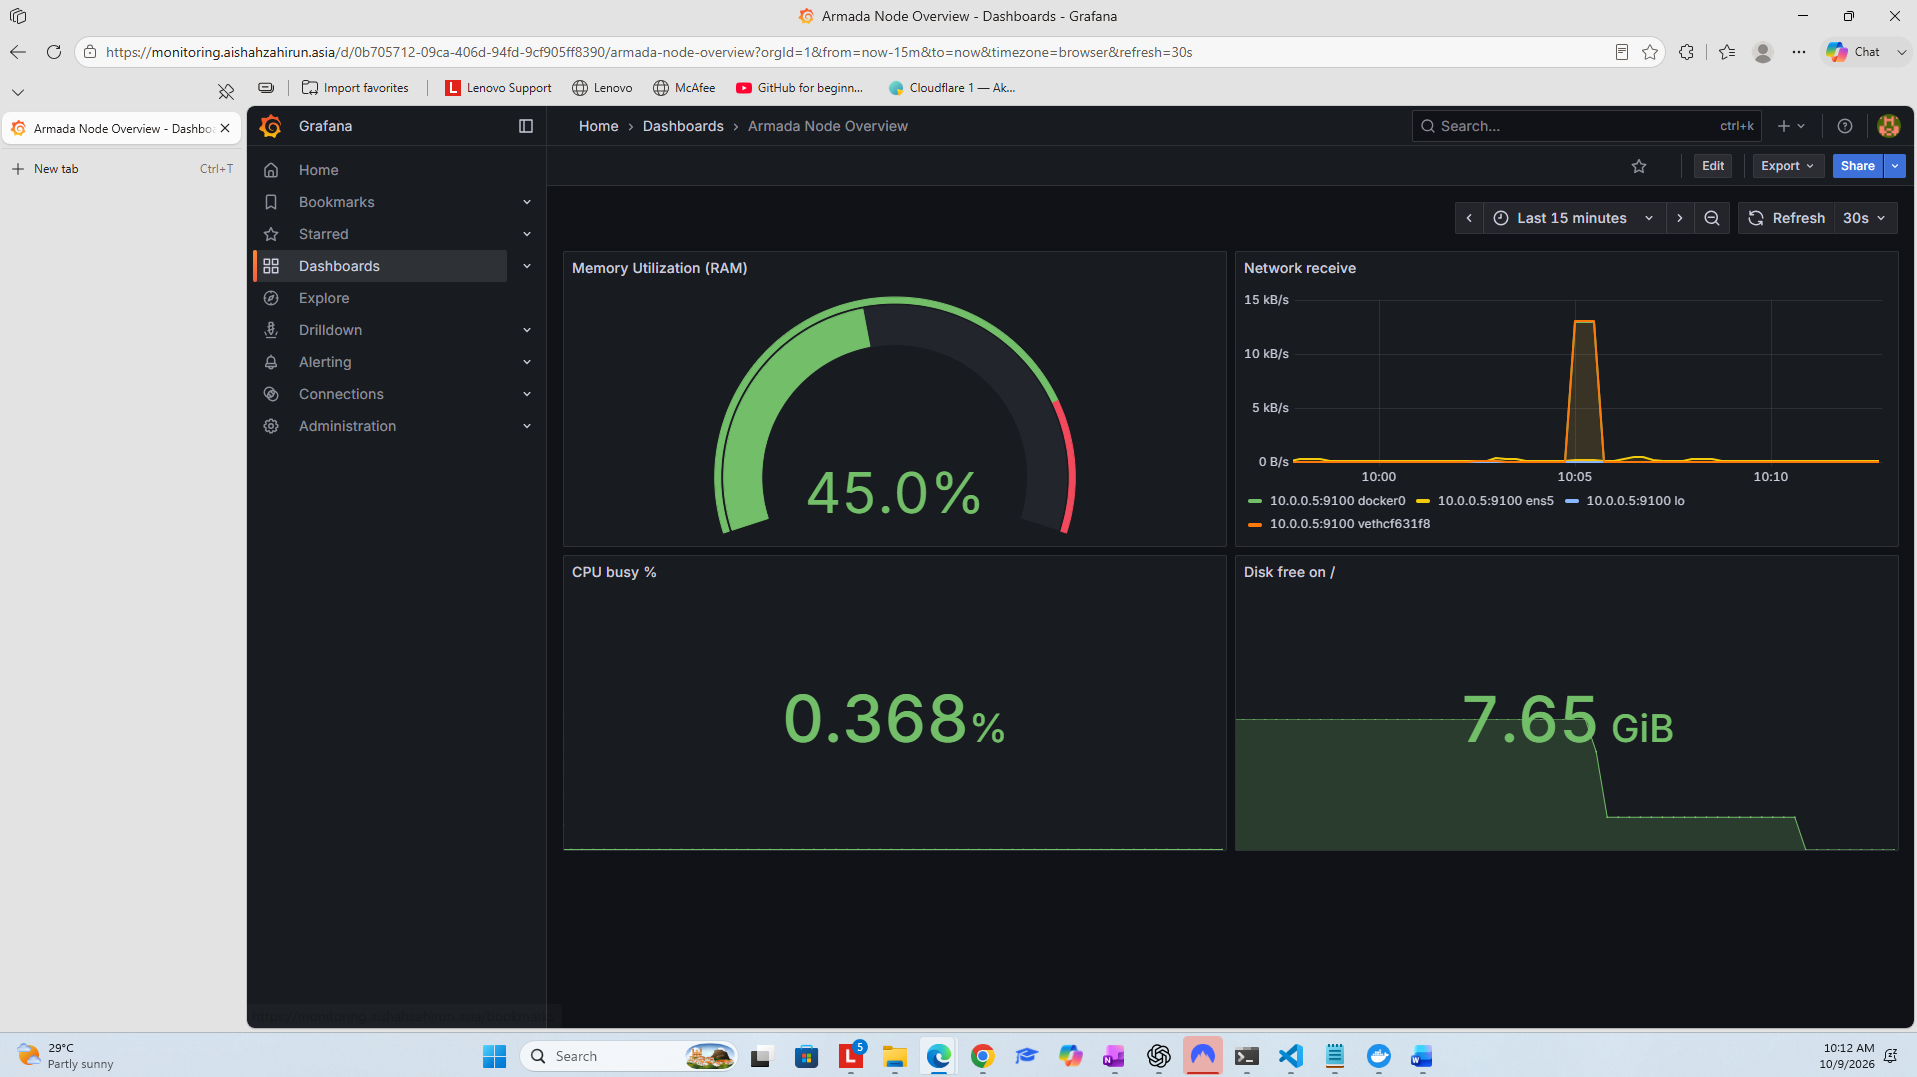
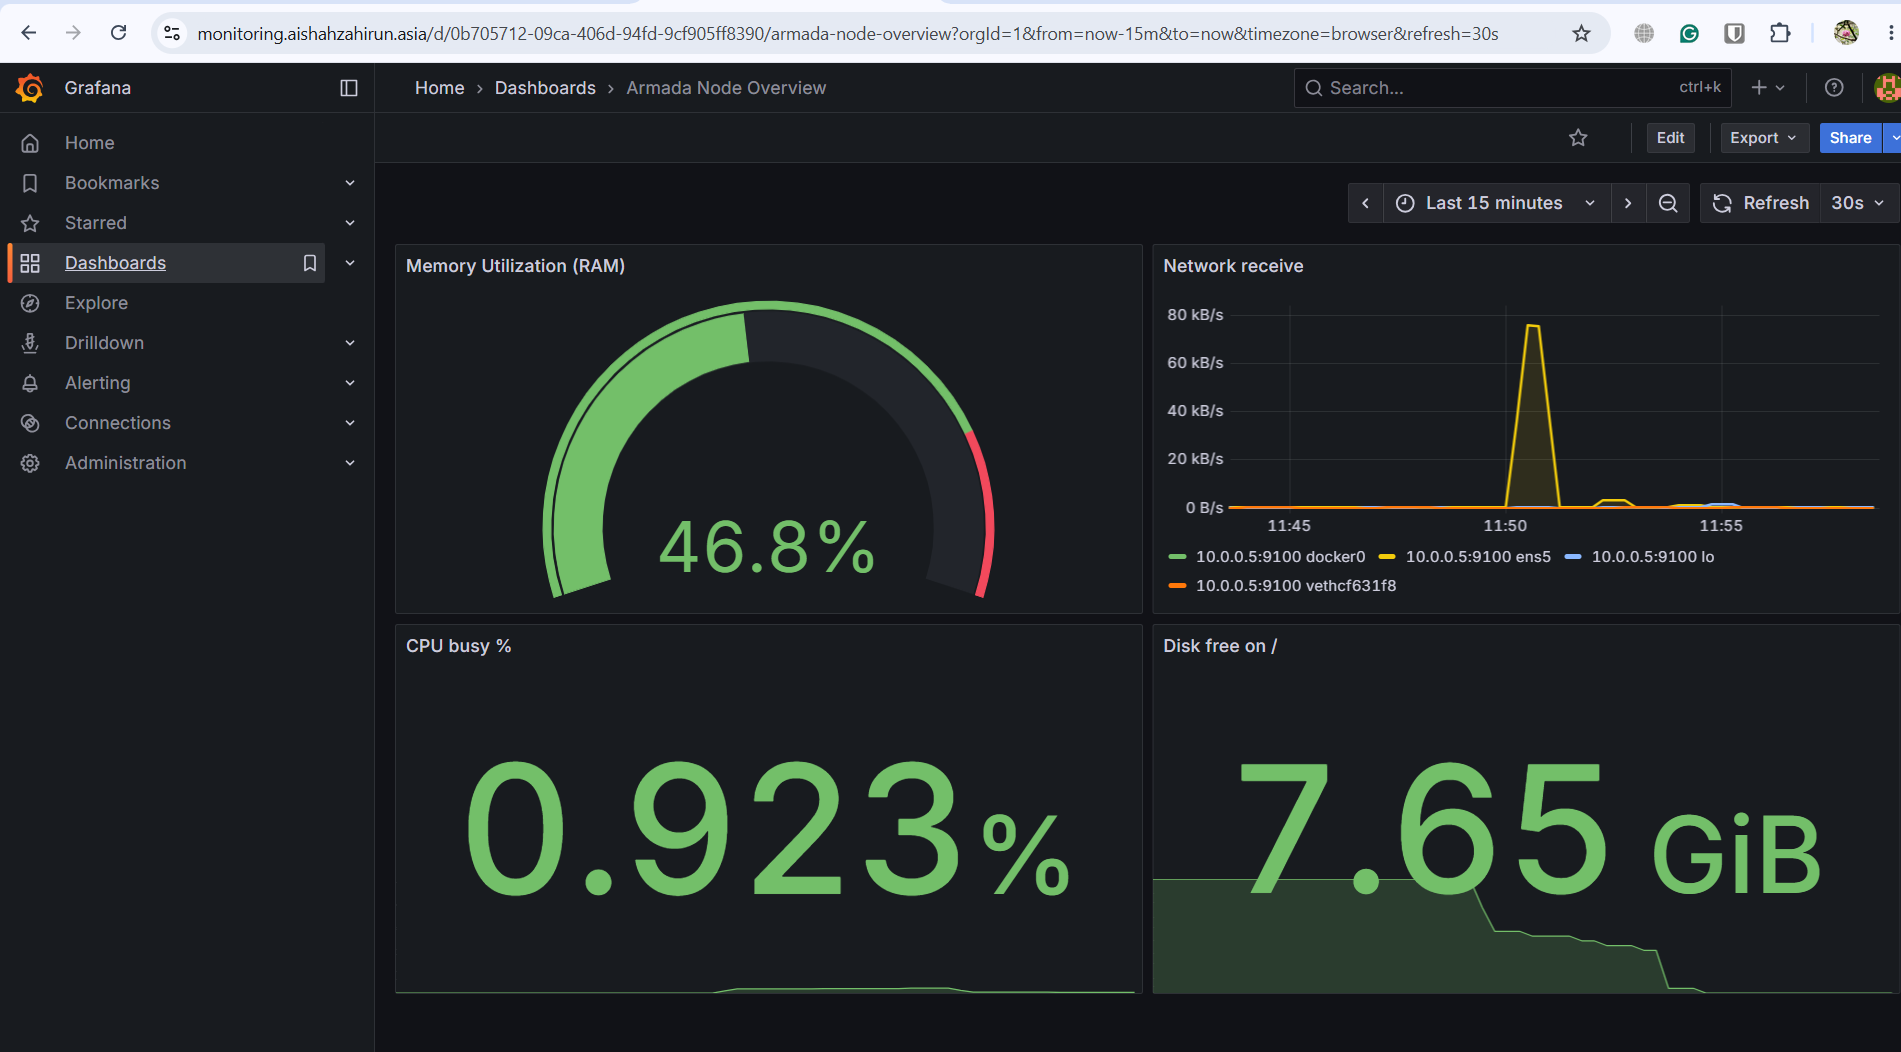
add screenshots pada readme.md

diff --git a/README.md b/README.md
@@ -134,27 +134,22 @@ devops-bootcamp-terraform-aishah
 ### Terraform Commands
 
 ```bash
-terraform -chdir=terraform init
-terraform -chdir=terraform fmt
-terraform -chdir=terraform validate
-terraform -chdir=terraform plan
-terraform -chdir=terraform apply
+terraform init
+terraform fmt
+terraform validate
+terraform plan
+terraform apply
 ```
 
 ### Infrastructure Evidence
 
-Add screenshots showing:
 
-- VPC and subnets
-- Internet Gateway and NAT Gateway
-- Route tables
-- EC2 instances and IP addresses 
-- Security groups
-- IAM instance profiles
-
-<!-- Example:
-![AWS EC2 instances](docs/screenshots/aws-ec2.png)
--->
+![VPC, internet gateway and NAT gateway](docs/screenshots/vpc.png)
+![web server](docs/screenshots/ec2-web-server.png)
+![ansible controller](docs/screenshots/ec2-ansible-controller.png)
+![monitoring server](docs/screenshots/ec2-monitoring.png)
+![terraform apply](docs/screenshots/terraform-apply-output.png)
+![terraform output](docs/screenshots/terraform-output.png)
 
 ## 2. Docker and Amazon ECR
 
@@ -210,10 +205,9 @@ docker push "$ECR_REPO:$IMAGE_TAG"
 
 ### Docker and ECR Evidence
 
-<!--
-![Application running locally](docs/screenshots/docker-local.png)
-![Private ECR image](docs/screenshots/ecr-image.png)
--->
+![node exporter](docs/screenshots/node-exporter-web.png)
+![ECR](docs/screenshots/ECR.png)
+![ECR image](docs/screenshots/ECR2.png)
 
 ## 3. Configuration with Ansible
 
@@ -263,11 +257,8 @@ Run the playbook a second time to demonstrate that the configuration is repeatab
 
 ### Ansible Evidence
 
-<!--
-![Ansible connectivity](docs/screenshots/ansible-ping.png)
-![Ansible playbook run](docs/screenshots/ansible-run.png)
-![Ansible repeated run](docs/screenshots/ansible-idempotent.png)
--->
+![ansible-run](docs/screenshots/ansible-run.png)
+![ansible-idempotent](docs/screenshots/ansible-idempotent.png)
 
 ## 4. Monitoring
 
@@ -332,11 +323,9 @@ A result value of `1` confirms that Prometheus can scrape node_exporter.
 
 ### Monitoring Evidence
 
-<!--
-![Node exporter container](docs/screenshots/node-exporter.png)
-![Prometheus target UP](docs/screenshots/prometheus-target.png)
-![Grafana dashboard](docs/screenshots/grafana-dashboard.png)
--->
+![prometheus](docs/screenshots/prometheus-status.png)
+![grafana dashboard](docs/screenshots/grafana-dashboard.png)
+![grafana volume](docs/screenshots/grafana-named-volume.png)
 
 ## 5. DNS and Cloudflare
 
@@ -364,11 +353,10 @@ The monitoring server remains in the private subnet and does not require a publi
 
 ### Cloudflare Evidence
 
-<!--
-![Cloudflare web DNS](docs/screenshots/cloudflare-web-dns.png)
-![Cloudflare tunnel](docs/screenshots/cloudflare-tunnel.png)
-![Monitoring domain](docs/screenshots/monitoring-domain.png)
--->
+![application domain](docs/screenshots/application-domain.png)
+![cloudflare tunnel](docs/screenshots/cloudlfare-tunnel.png)
+![cloudflare tunnel hostname](docs/screenshots/cloudlfare-tunnel-hostname.png)
+![monitoring domain](docs/screenshots/monitoring-domain.png)
 
 ## 6. GitHub Pages
 
@@ -388,10 +376,9 @@ https://aishahzahirun96.github.io/devops-bootcamp-project/
 
 ### GitHub Pages Evidence
 
-<!--
-![GitHub Actions success](docs/screenshots/github-actions.png)
-![GitHub Pages website](docs/screenshots/github-pages.png)
--->
+![GitHub Actions build and deploy](docs/screenshots/github-pages/build-deploy.png)
+
+![Published GitHub Pages documentation](docs/screenshots/github-pages/pages-site.png)
 
 ## Security Notes
 
